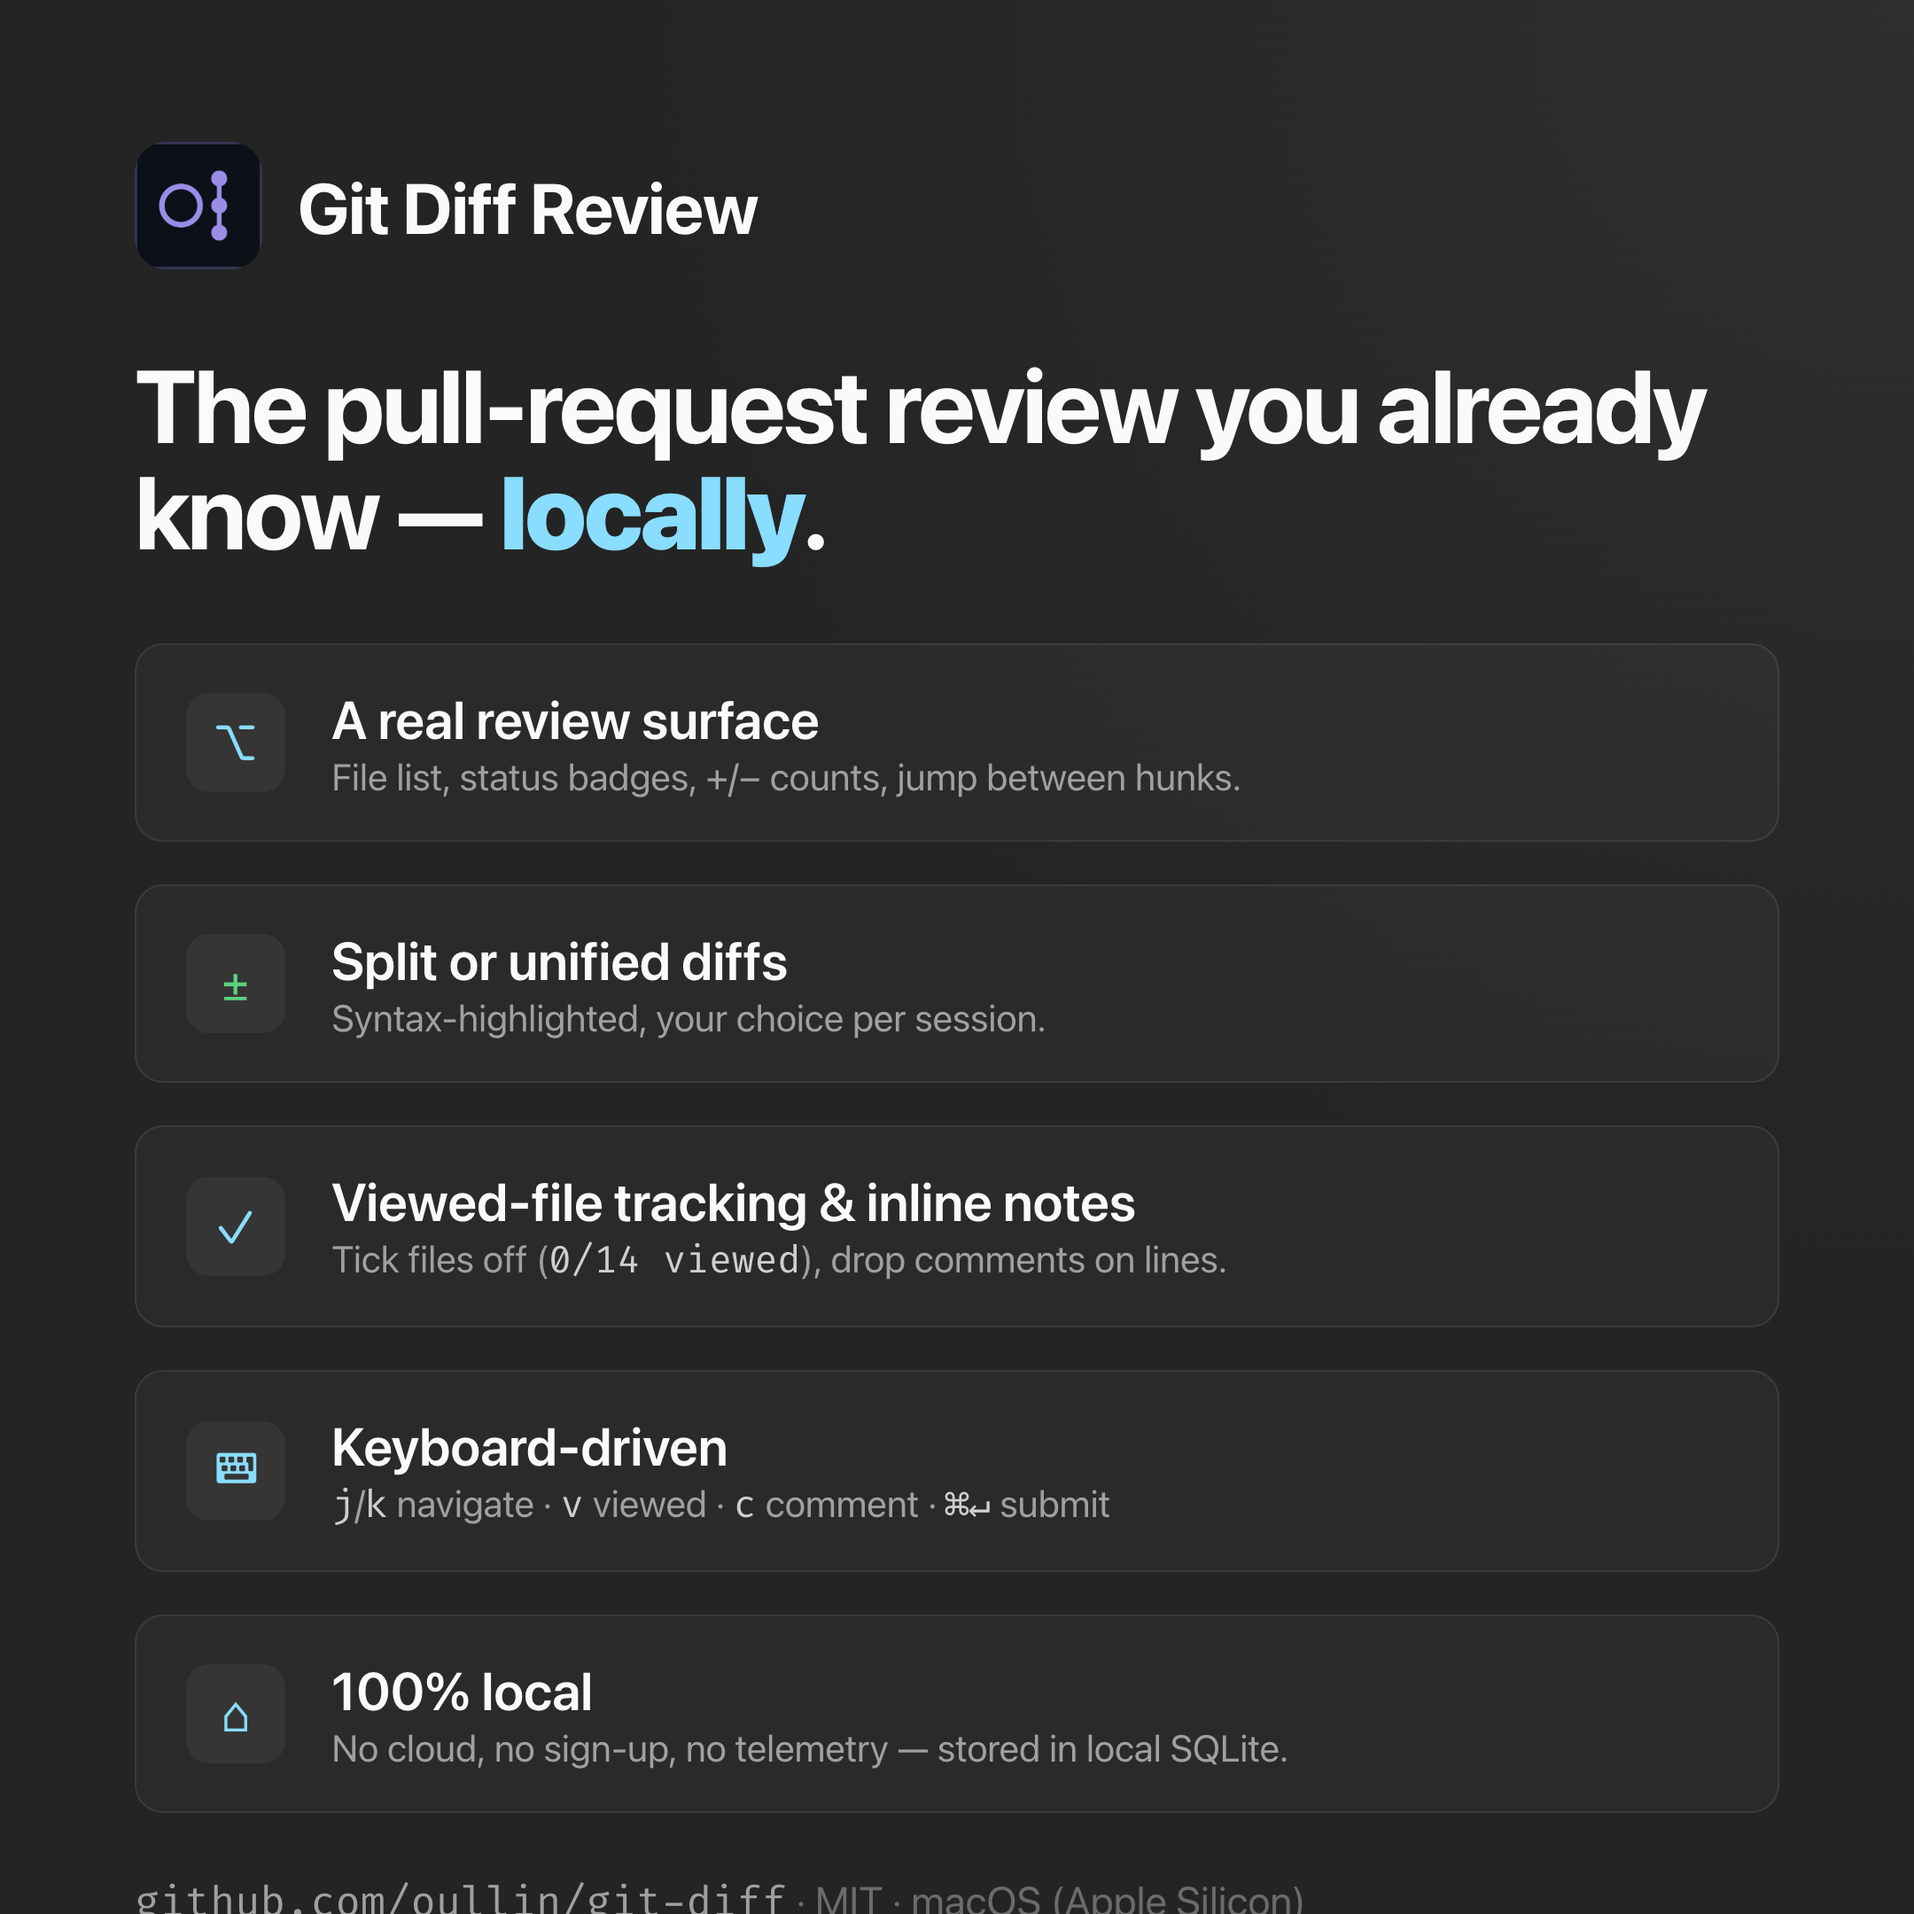
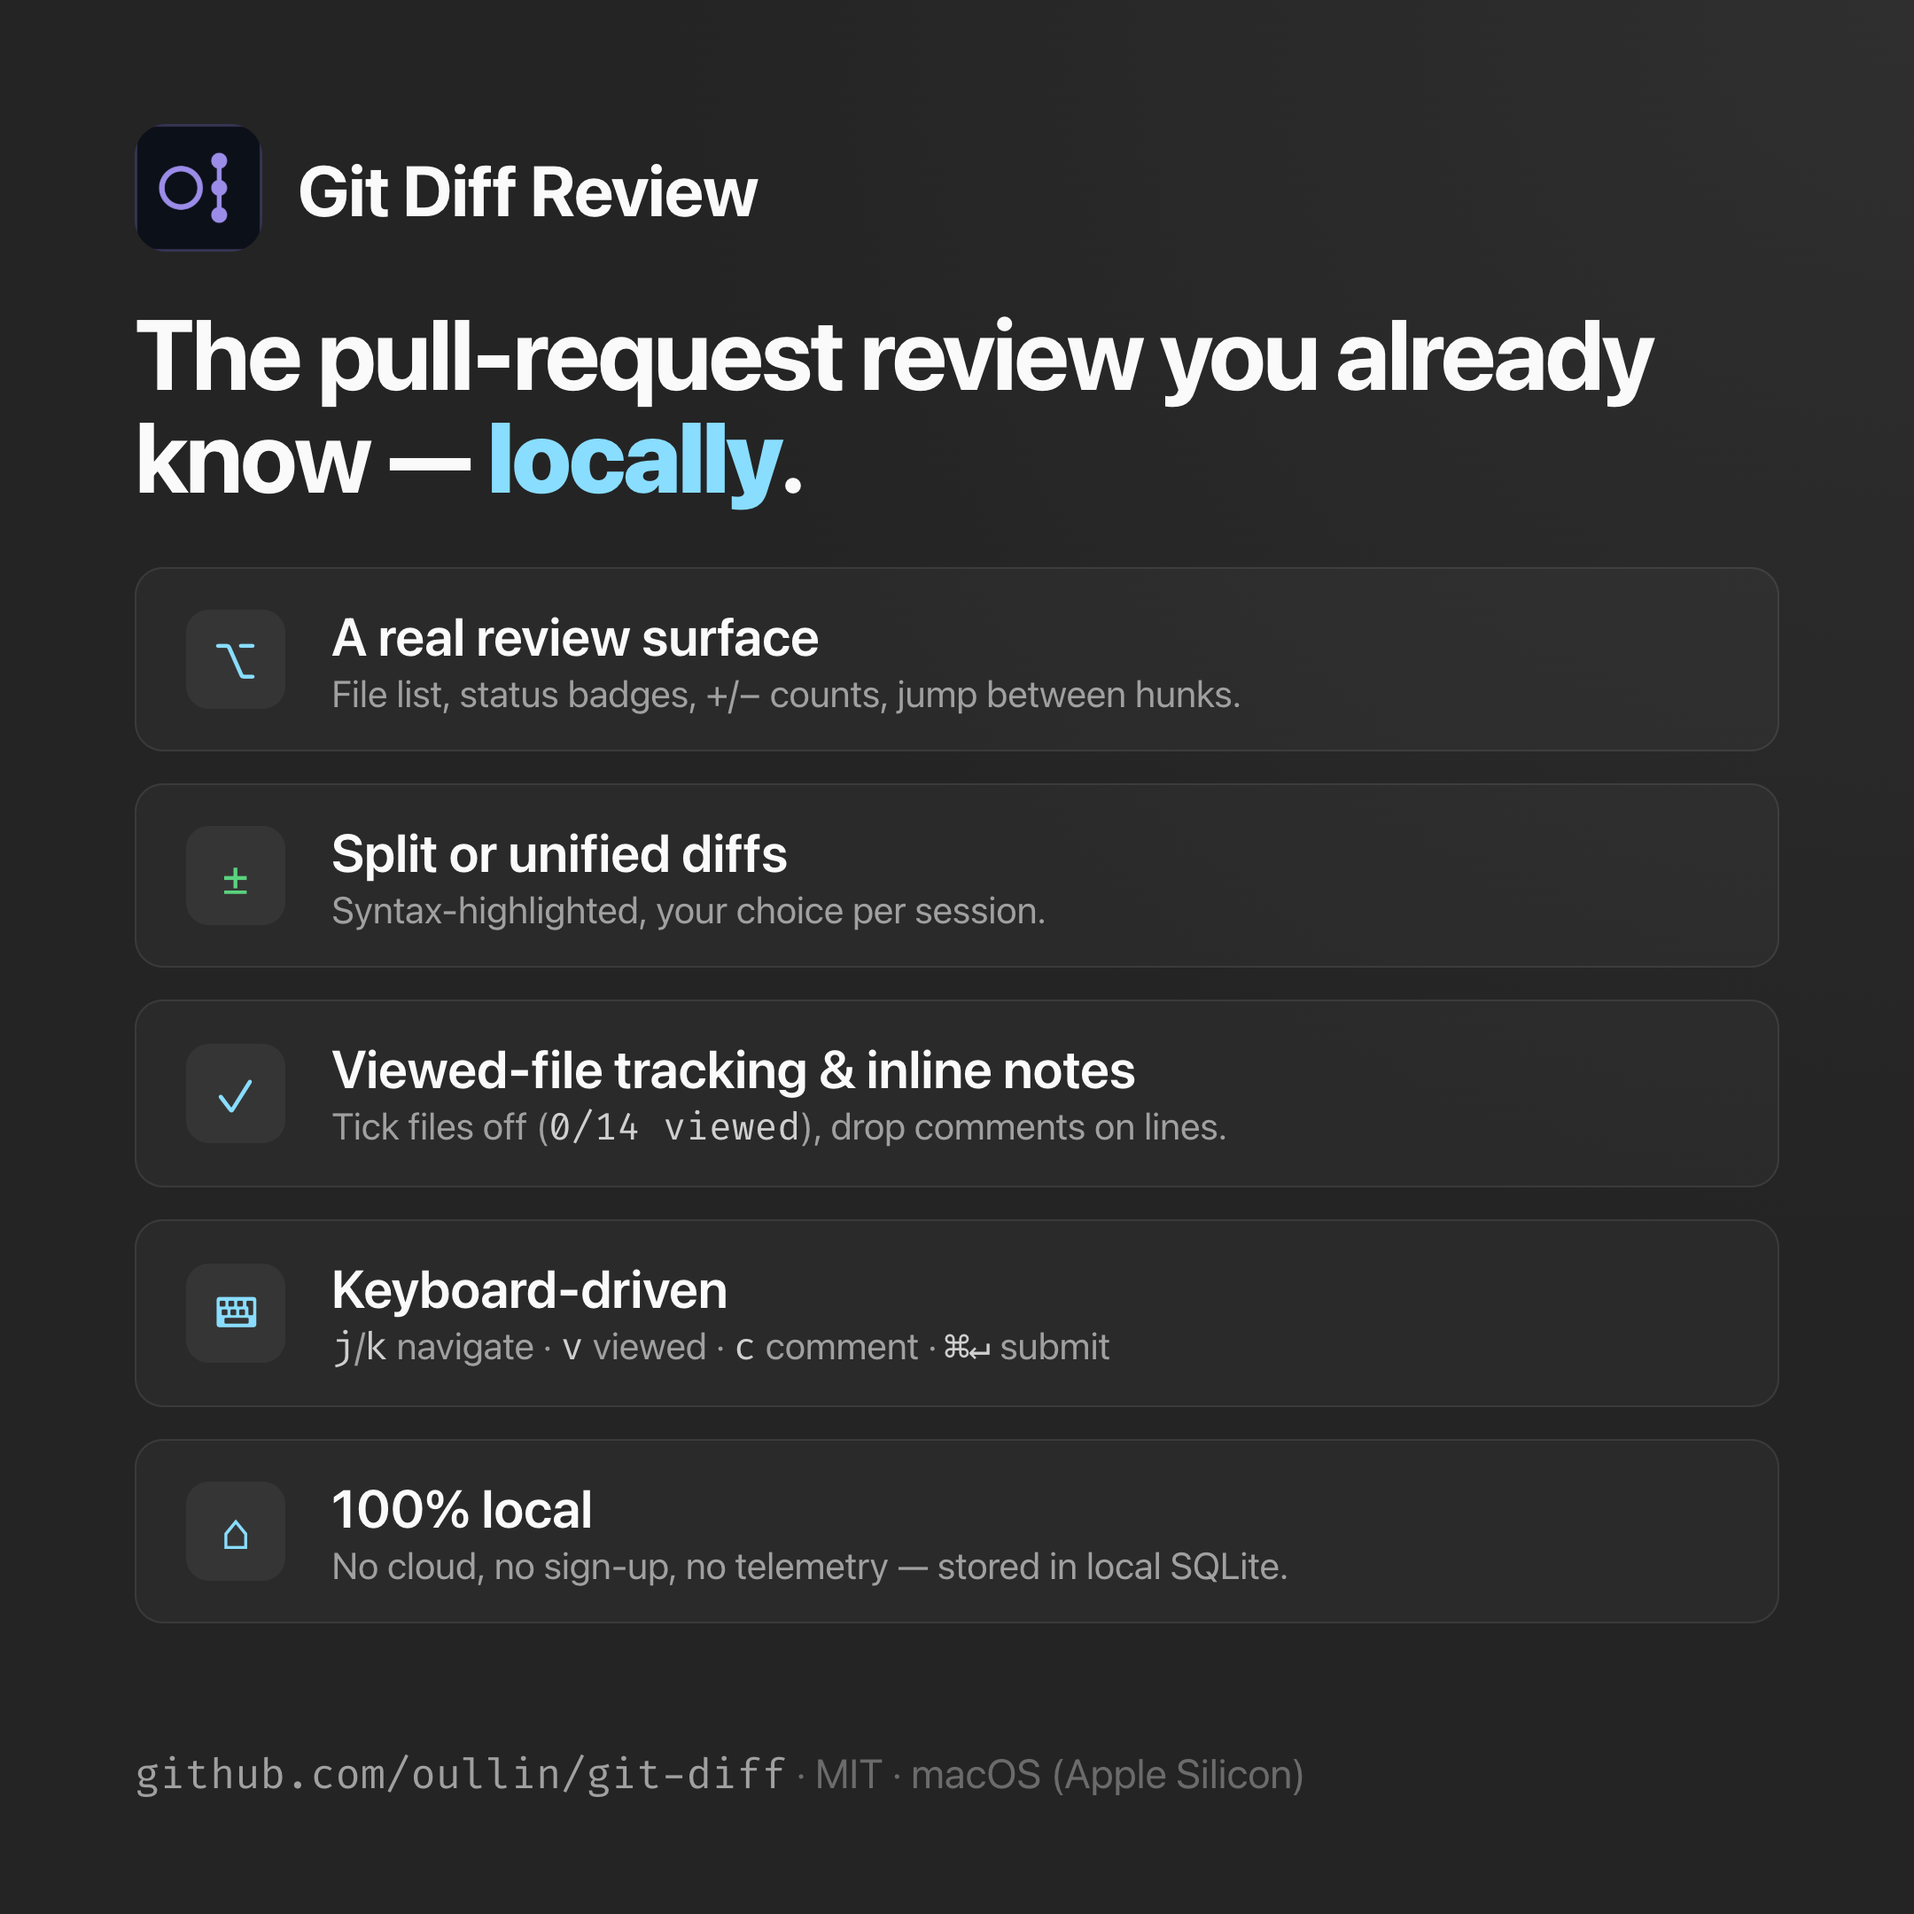
fix(marketing): stop features card footer clipping at bottom edge
Content overflowed the 1080px card height, pushing the github/MIT/macOS
footer below the visible area. Tighten heading and row spacing and reduce
bottom padding so the footer sits fully inside the frame. Re-render PNG.

diff --git a/marketing/cards/src/features.html b/marketing/cards/src/features.html
@@ -7,7 +7,7 @@
       .card {
         width: 1080px;
         height: 1080px;
-        padding: 80px 76px;
+        padding: 70px 76px 64px;
         display: flex;
         flex-direction: column;
       }
@@ -15,7 +15,7 @@
         display: flex;
         align-items: center;
         gap: 20px;
-        margin-bottom: 16px;
+        margin-bottom: 8px;
       }
       .head img {
         width: 72px;
@@ -28,11 +28,11 @@
         letter-spacing: -0.02em;
       }
       h2 {
-        font-size: 58px;
+        font-size: 56px;
         line-height: 1.04;
         font-weight: 700;
         letter-spacing: -0.03em;
-        margin: 30px 0 44px;
+        margin: 20px 0 34px;
       }
       h2 b {
         color: var(--accent);
@@ -40,7 +40,7 @@
       .rows {
         display: flex;
         flex-direction: column;
-        gap: 24px;
+        gap: 18px;
       }
       .row {
         display: flex;
@@ -49,7 +49,7 @@
         border: 1px solid var(--border);
         background: #ffffff07;
         border-radius: 16px;
-        padding: 24px 28px;
+        padding: 20px 28px;
       }
       .ic {
         width: 56px;
@@ -77,7 +77,7 @@
       }
       .foot {
         margin-top: auto;
-        padding-top: 36px;
+        padding-top: 28px;
         font-size: 23px;
         color: var(--faint);
       }
